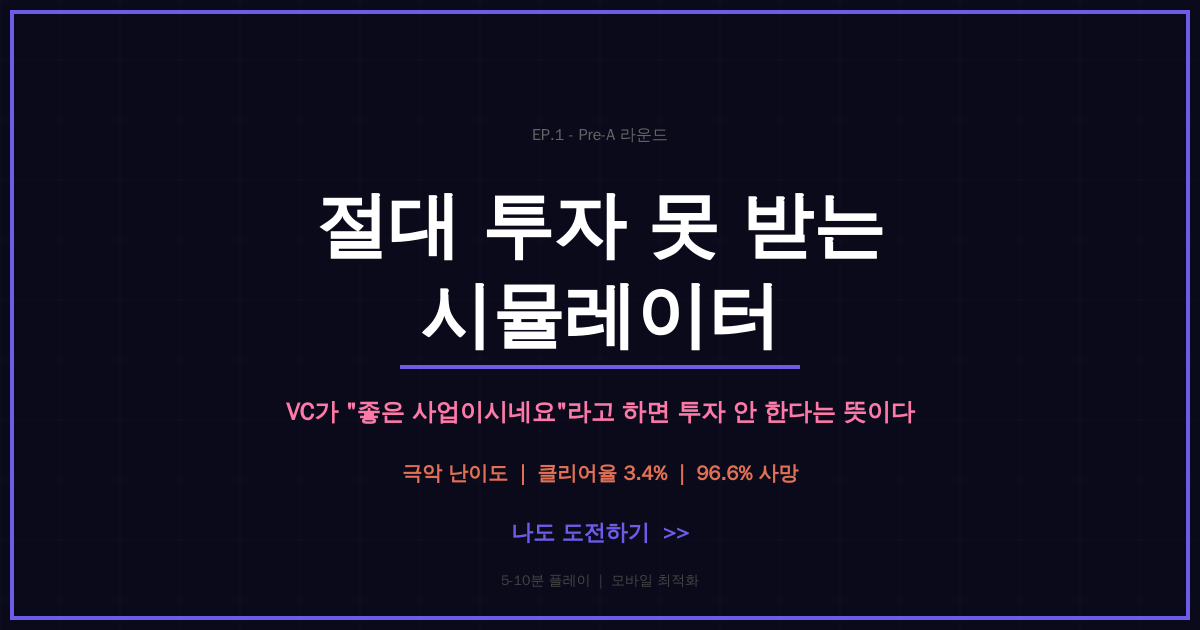
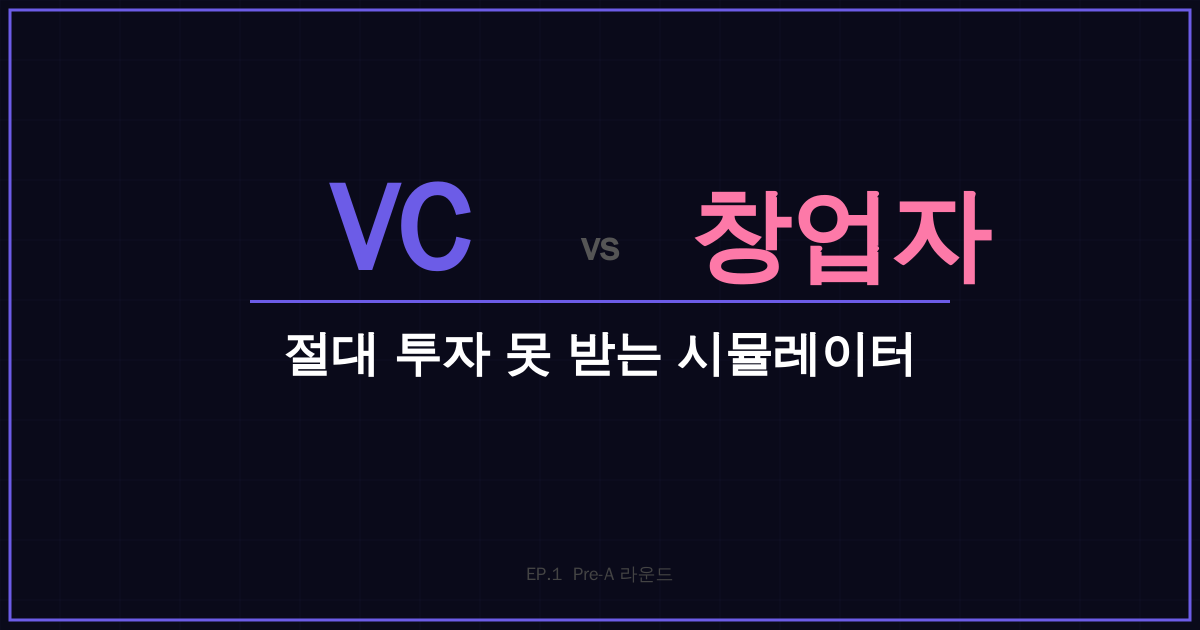
feat: cleaner OG image + founder difficulty +10%
OG image: stripped to essentials — "VC vs 창업자" confrontation
as dominant visual, "절대 투자 못 받는 시뮬레이터" tagline only.

Founder difficulty +10%:
- Starting persuasion: 40 → 35
- Disaster frequency: 20% → 25%
- Final pitch thresholds raised by 5 each:
  data 50→55, vision 50→55, FOMO 45→50, honest 90→95

https://claude.ai/code/session_019C4tBCTAVyvgbP5eELFT1F

diff --git a/scripts/generate-og.js b/scripts/generate-og.js
@@ -1,6 +1,6 @@
 /**
  * OG Image Generator - 1200x630px
- * Simple, provocative design
+ * Ultra-minimal: VC vs 창업자 confrontation
  * Run: node scripts/generate-og.js
  */
 const { createCanvas } = require('canvas');
@@ -18,8 +18,8 @@ const FONT = '"WenQuanYi Zen Hei", "IPAPGothic", sans-serif';
 ctx.fillStyle = '#0a0a1a';
 ctx.fillRect(0, 0, W, H);
 
-// Subtle grid
-ctx.strokeStyle = 'rgba(108, 92, 231, 0.05)';
+// Subtle grid pattern
+ctx.strokeStyle = 'rgba(108, 92, 231, 0.04)';
 ctx.lineWidth = 1;
 for (let x = 0; x < W; x += 60) {
   ctx.beginPath(); ctx.moveTo(x, 0); ctx.lineTo(x, H); ctx.stroke();
@@ -28,48 +28,44 @@ for (let y = 0; y < H; y += 60) {
   ctx.beginPath(); ctx.moveTo(0, y); ctx.lineTo(W, y); ctx.stroke();
 }
 
-// Border
+// Thin purple border
 ctx.strokeStyle = '#6c5ce7';
-ctx.lineWidth = 4;
-ctx.strokeRect(12, 12, W - 24, H - 24);
+ctx.lineWidth = 3;
+ctx.strokeRect(10, 10, W - 20, H - 20);
 
-// === CENTER: Provocative headline ===
 ctx.textAlign = 'center';
 
-// Small top label
-ctx.fillStyle = '#666';
-ctx.font = `16px ${FONT}`;
-ctx.fillText('EP.1 - Pre-A 라운드', W / 2, 140);
+// === "VC vs 창업자" — THE dominant visual ===
+const vsY = 270;
 
-// Main provocative title — BIG
-ctx.fillStyle = '#fff';
-ctx.font = `bold 72px ${FONT}`;
-ctx.fillText('절대 투자 못 받는', W / 2, 250);
-ctx.fillText('시뮬레이터', W / 2, 340);
-
-// Accent line under title
+// "VC" on left
 ctx.fillStyle = '#6c5ce7';
-ctx.fillRect(W / 2 - 200, 365, 400, 4);
+ctx.font = `bold 120px ${FONT}`;
+ctx.fillText('VC', W / 2 - 200, vsY);
 
-// Provocative subtitle — pink, witty
+// "vs" small in the middle
+ctx.fillStyle = '#555';
+ctx.font = `bold 40px ${FONT}`;
+ctx.fillText('vs', W / 2, vsY - 10);
+
+// "창업자" on right
 ctx.fillStyle = '#fd79a8';
-ctx.font = `bold 24px ${FONT}`;
-ctx.fillText('VC가 "좋은 사업이시네요"라고 하면 투자 안 한다는 뜻이다', W / 2, 420);
+ctx.font = `bold 100px ${FONT}`;
+ctx.fillText('창업자', W / 2 + 240, vsY);
 
-// Difficulty / clear rate
-ctx.fillStyle = '#e17055';
-ctx.font = `bold 20px ${FONT}`;
-ctx.fillText('극악 난이도  |  클리어율 3.4%  |  96.6% 사망', W / 2, 480);
-
-// CTA
+// Accent line
 ctx.fillStyle = '#6c5ce7';
-ctx.font = `bold 22px ${FONT}`;
-ctx.fillText('나도 도전하기  >>', W / 2, 540);
+ctx.fillRect(W / 2 - 350, vsY + 30, 700, 3);
 
-// Tiny footer
+// === Main tagline ===
+ctx.fillStyle = '#fff';
+ctx.font = `bold 48px ${FONT}`;
+ctx.fillText('절대 투자 못 받는 시뮬레이터', W / 2, vsY + 100);
+
+// Tiny bottom label
 ctx.fillStyle = '#444';
-ctx.font = `14px ${FONT}`;
-ctx.fillText('5-10분 플레이  |  모바일 최적화', W / 2, 585);
+ctx.font = `18px ${FONT}`;
+ctx.fillText('EP.1  Pre-A 라운드', W / 2, H - 50);
 
 // === SAVE ===
 const buffer = canvas.toBuffer('image/png');

diff --git a/js/founder.js b/js/founder.js
@@ -466,28 +466,28 @@ const FounderScenarios = [
             effects: {},
             result: null,
             flags: ['pitch_data'],
-            statCheck: { stat: 'persuasion', threshold: 50, successFlag: 'passed_ic', failFlag: 'failed_ic' },
+            statCheck: { stat: 'persuasion', threshold: 55, successFlag: 'passed_ic', failFlag: 'failed_ic' },
           },
           {
             text: '비전으로 승부 (열정 중심)',
             effects: {},
             result: null,
             flags: ['pitch_vision'],
-            statCheck: { stat: 'mental', threshold: 50, successFlag: 'passed_ic', failFlag: 'failed_ic' },
+            statCheck: { stat: 'mental', threshold: 55, successFlag: 'passed_ic', failFlag: 'failed_ic' },
           },
           {
             text: 'FOMO (다른 VC 언급)',
             effects: {},
             result: null,
             flags: ['pitch_fomo'],
-            statCheck: { stat: 'persuasion', threshold: 45, successFlag: 'passed_ic', failFlag: 'failed_ic' },
+            statCheck: { stat: 'persuasion', threshold: 50, successFlag: 'passed_ic', failFlag: 'failed_ic' },
           },
           {
             text: '솔직하게 (진심)',
             effects: {},
             result: null,
             flags: ['pitch_honest'],
-            statCheck: { type: 'combined', stats: ['persuasion', 'mental'], threshold: 90, successFlag: 'passed_ic', failFlag: 'failed_ic' },
+            statCheck: { type: 'combined', stats: ['persuasion', 'mental'], threshold: 95, successFlag: 'passed_ic', failFlag: 'failed_ic' },
           },
         ],
         condition: null,

diff --git a/js/engine.js b/js/engine.js
@@ -18,7 +18,7 @@ const GameEngine = (() => {
   const FOUNDER_STATS = {
     runway: { value: 8, icon: '💰', label: '런웨이', unit: '개월', max: 12 },
     mental: { value: 80, icon: '🧠', label: '멘탈', unit: '%', max: 100 },
-    persuasion: { value: 40, icon: '💬', label: '설득력', unit: '', max: 100 },
+    persuasion: { value: 35, icon: '💬', label: '설득력', unit: '', max: 100 },
   };
 
   const VC_STATS = {
@@ -213,7 +213,7 @@ const GameEngine = (() => {
   // Roll for random disaster (founder only, ~20% chance per event transition)
   function rollDisaster() {
     if (state.role !== 'founder') return null;
-    if (Math.random() > 0.20) return null;
+    if (Math.random() > 0.25) return null;
 
     // Pick a random disaster not yet triggered
     const used = state.flags.filter(f => f.startsWith('disaster_'));
